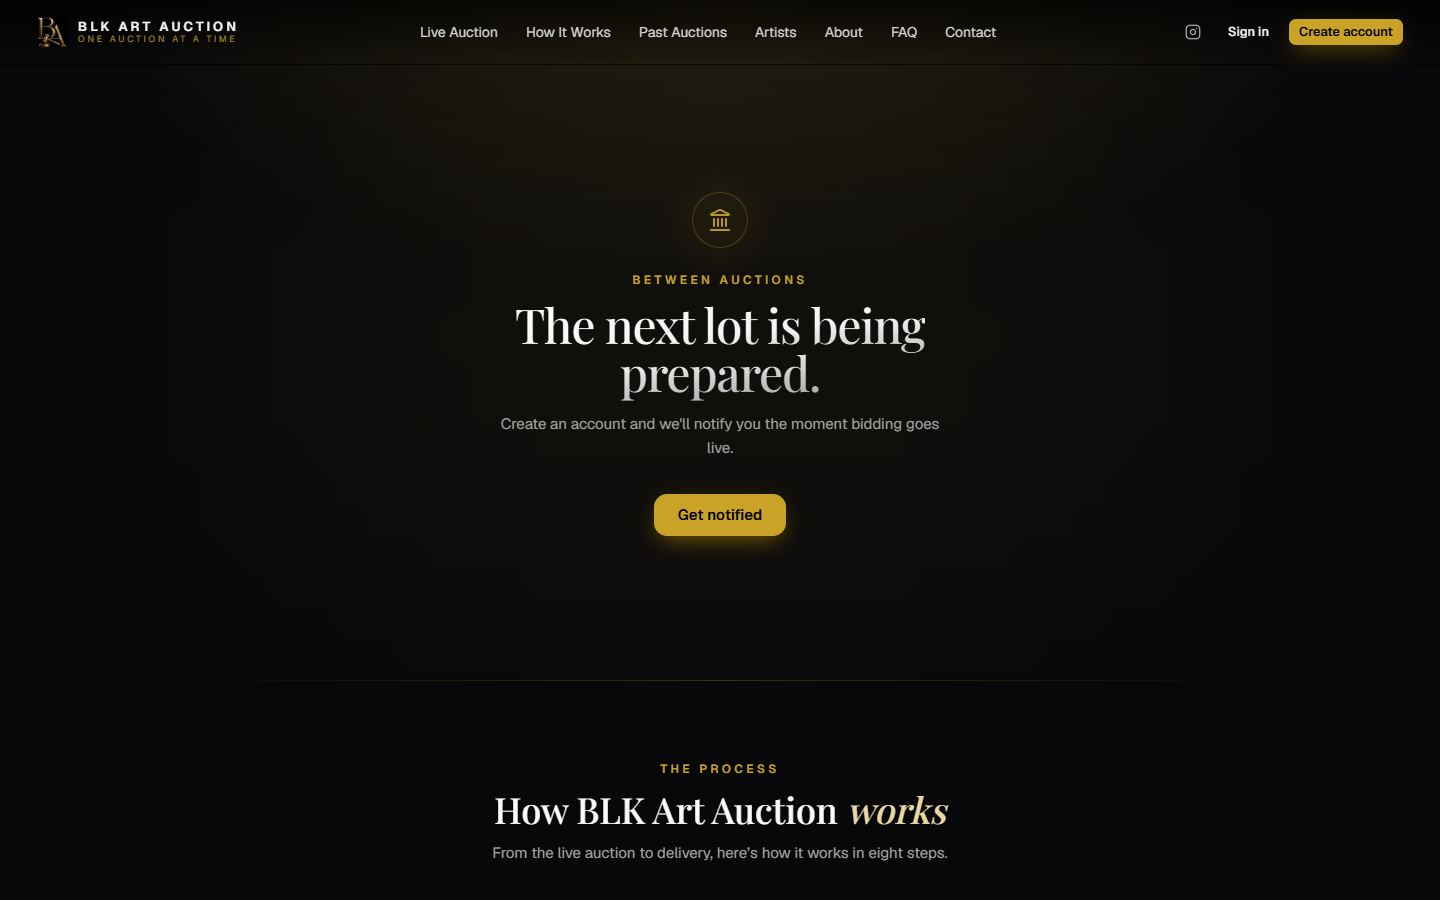
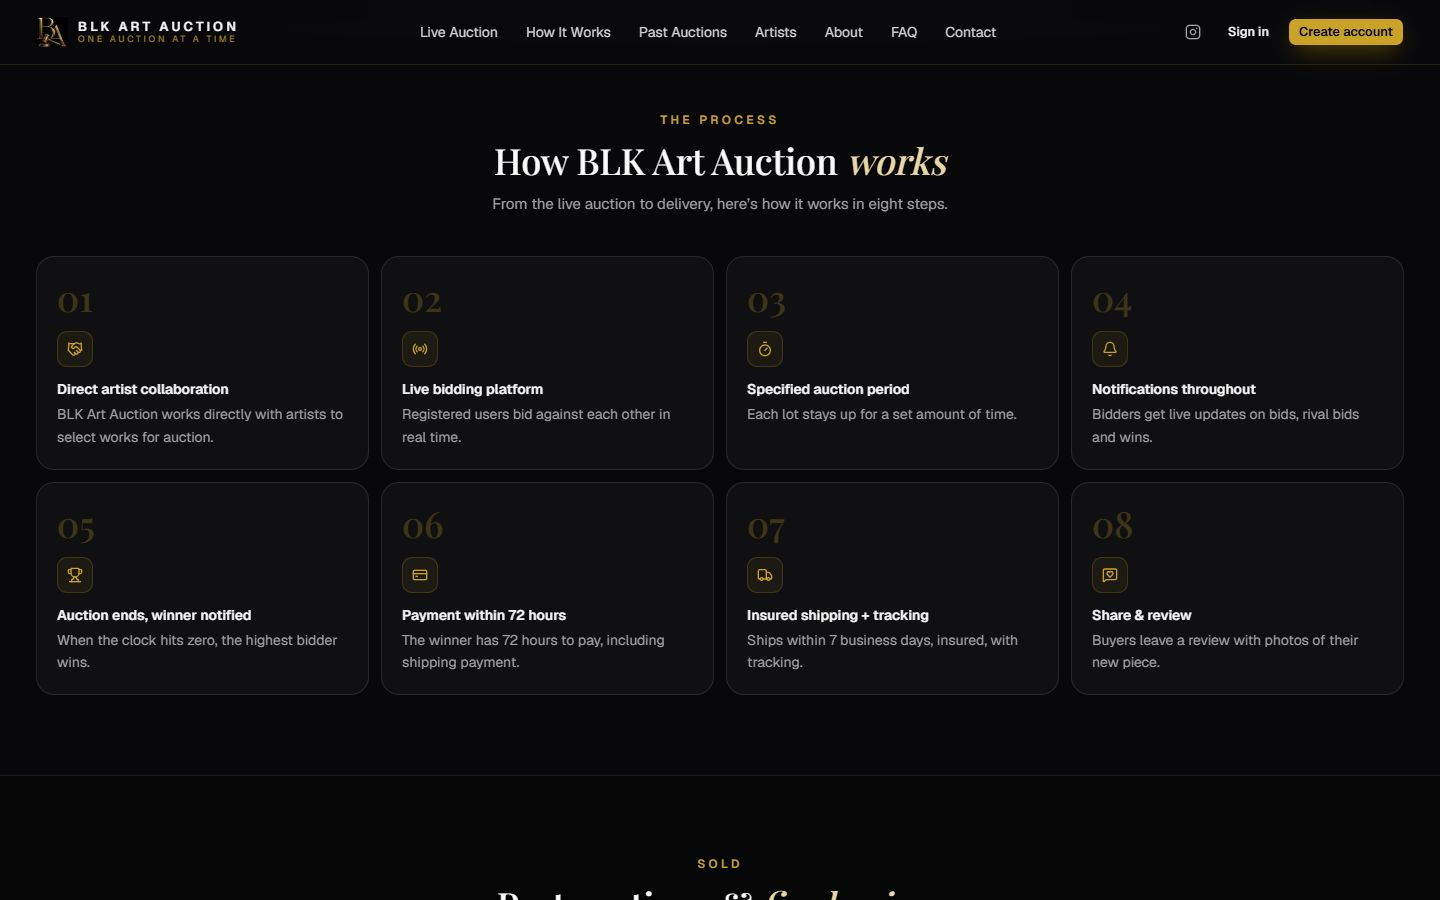
Add Industries section, FAQ, chatbot intent; D-TradeX and BLK preview screenshots

diff --git a/index.html b/index.html
@@ -93,7 +93,10 @@
         "AWS",
         "Google Cloud Platform",
         "Oracle Cloud Infrastructure",
-        "Microsoft Azure"
+        "Microsoft Azure",
+        "Healthcare software",
+        "eCommerce",
+        "FinTech"
       ],
       "knowsLanguage": [
         "English",
@@ -214,6 +217,14 @@
           "acceptedAnswer": {
             "@type": "Answer",
             "text": "Yes. Rahul Dhiman is also written Raahul Dhiman, Rahuldhiman, Raahuldhiman, Rahul Singh Dhiman or Rahul S. Dhiman. They all refer to the same Full-Stack and AI Engineer from Mohali, India, whose profiles are LinkedIn (raahuldhimanofficial) and GitHub (raahuldhiman-dev)."
+          }
+        },
+        {
+          "@type": "Question",
+          "name": "What industries has Rahul Dhiman worked in?",
+          "acceptedAnswer": {
+            "@type": "Answer",
+            "text": "Rahul Dhiman has built software for healthcare and medical imaging (Medviso), eCommerce and retail, online art auctions, fintech and algorithmic trading, HR and career technology, AI SaaS, marketing agencies, booking and scheduling, and real-time messaging. At Kwan Network Solutions he also built client web applications across several industry verticals."
           }
         }
       ]
@@ -614,6 +625,14 @@
       transition: all 0.2s; cursor: default;
     }
     .skill-badge:hover { border-color: rgba(132,94,247,0.4); color: var(--acc2); transform: translateY(-2px); }
+
+    /* Industries */
+    .ind-grid { display: grid; grid-template-columns: repeat(auto-fit, minmax(240px, 1fr)); gap: 16px; margin-top: 8px; }
+    .ind-card { background: var(--card); border: 1px solid var(--border); border-radius: 16px; padding: 22px; transition: border-color 0.25s, transform 0.25s; }
+    .ind-card:hover { border-color: var(--border2); transform: translateY(-3px); }
+    .ind-emoji { font-size: 28px; display: block; margin-bottom: 10px; }
+    .ind-title { font-family: var(--font-display); font-size: 16px; font-weight: 600; margin-bottom: 6px; }
+    .ind-desc { color: var(--muted); font-size: 13.5px; line-height: 1.7; }
 
     /* Projects */
     #projects { background: var(--bg2); }
@@ -1521,9 +1540,9 @@
 
       <!-- D-TradeX -->
       <div class="project-card" data-category="fintech backend fullstack">
-        <div class="project-thumb" style="background:linear-gradient(135deg,#0a0f1e,#0d1f3c,#102040);display:flex;align-items:center;justify-content:center;flex-direction:column;gap:10px;">
-          <div style="font-size:48px;">📈</div>
-          <div style="font-family:'JetBrains Mono',monospace;font-size:11px;color:rgba(0,217,192,0.7);letter-spacing:0.1em;">LIVE · finance.dhimansoft.com</div>
+        <div class="project-thumb pt-gradient-5">
+          <img data-src="assets/projects/dtradex.jpg" alt="D-TradeX preview" loading="lazy">
+          <span class="project-thumb-emoji">📈</span>
           <div class="project-thumb-overlay"><a href="https://finance.dhimansoft.com" target="_blank" rel="noopener">Visit Live Site ↗</a></div>
         </div>
         <div class="project-body">
@@ -1553,6 +1572,26 @@
 
     </div>
     <div style="text-align:center;margin-top:40px;"><a href="https://github.com/raahuldhiman-dev" target="_blank" rel="noopener noreferrer" class="btn-secondary">View All on GitHub →</a></div>
+  </div>
+</section>
+
+<!-- Industries -->
+<section id="industries" aria-labelledby="industries-title">
+  <div class="wrap">
+    <span class="badge">Domains</span>
+    <h2 id="industries-title" class="sec-title fade-up">Industries I've <span style="background:var(--g1);-webkit-background-clip:text;-webkit-text-fill-color:transparent;background-clip:text;">Served</span></h2>
+    <p class="sec-desc">The kinds of businesses my software has been built for, drawn from the projects above and my roles below, including client web applications across several industry verticals at Kwan Network Solutions.</p>
+    <div class="ind-grid">
+      <article class="ind-card fade-up"><span class="ind-emoji" aria-hidden="true">🏥</span><h3 class="ind-title">Healthcare &amp; Medical Imaging</h3><p class="ind-desc">Maintaining Medviso's transfer.medviso.com, with Python and Matplotlib rendering data into images.</p></article>
+      <article class="ind-card fade-up"><span class="ind-emoji" aria-hidden="true">🛒</span><h3 class="ind-title">eCommerce &amp; Retail</h3><p class="ind-desc">A WooCommerce store for a local tyre and car-accessories business, and a Laravel multi-role eCommerce platform.</p></article>
+      <article class="ind-card fade-up"><span class="ind-emoji" aria-hidden="true">🎨</span><h3 class="ind-title">Art &amp; Auctions</h3><p class="ind-desc">BLK Art Auction: real-time bidding, anti-sniping protection and artist onboarding.</p></article>
+      <article class="ind-card fade-up"><span class="ind-emoji" aria-hidden="true">📈</span><h3 class="ind-title">FinTech &amp; Trading</h3><p class="ind-desc">D-TradeX multi-broker trading suite and an LSTM stock price forecaster.</p></article>
+      <article class="ind-card fade-up"><span class="ind-emoji" aria-hidden="true">💼</span><h3 class="ind-title">HR &amp; Career Tech</h3><p class="ind-desc">Polite Resume: an ATS-friendly resume and cover letter builder with a membership flow.</p></article>
+      <article class="ind-card fade-up"><span class="ind-emoji" aria-hidden="true">🤖</span><h3 class="ind-title">AI &amp; SaaS</h3><p class="ind-desc">A multi-tenant RAG document Q&amp;A product and a GPT-4 content generation microservice.</p></article>
+      <article class="ind-card fade-up"><span class="ind-emoji" aria-hidden="true">📣</span><h3 class="ind-title">Marketing &amp; Digital Agencies</h3><p class="ind-desc">Websites and campaign landing pages for small and mid-sized clients at Canvas Craft Media.</p></article>
+      <article class="ind-card fade-up"><span class="ind-emoji" aria-hidden="true">📅</span><h3 class="ind-title">Booking &amp; Scheduling</h3><p class="ind-desc">A booking platform with Zoom integration, calendar sync and Stripe payments.</p></article>
+      <article class="ind-card fade-up"><span class="ind-emoji" aria-hidden="true">💬</span><h3 class="ind-title">Real-time Messaging</h3><p class="ind-desc">A multi-user chat app with direct and group conversations and self-hosted WebSockets.</p></article>
+    </div>
   </div>
 </section>
 
@@ -1724,6 +1763,10 @@
         <summary>Is Raahul Dhiman or Rahul Singh Dhiman the same person as Rahul Dhiman?</summary>
         <p>Yes. Rahul Dhiman is also written Raahul Dhiman, Rahuldhiman, Raahuldhiman, Rahul Singh Dhiman or Rahul S. Dhiman. They all refer to the same Full-Stack and AI Engineer from Mohali, India, whose profiles are LinkedIn (raahuldhimanofficial) and GitHub (raahuldhiman-dev).</p>
       </details>
+      <details class="faq-item">
+        <summary>What industries has Rahul Dhiman worked in?</summary>
+        <p>Rahul Dhiman has built software for healthcare and medical imaging (Medviso), eCommerce and retail, online art auctions, fintech and algorithmic trading, HR and career technology, AI SaaS, marketing agencies, booking and scheduling, and real-time messaging. At Kwan Network Solutions he also built client web applications across several industry verticals.</p>
+      </details>
     </div>
   </div>
 </section>
@@ -1846,7 +1889,7 @@
   <div class="footer-inner">
     <a href="#home" class="footer-logo">Rahul Dhiman</a>
     <div class="footer-links">
-      <a href="#about">About</a><a href="#skills">Skills</a><a href="#projects">Projects</a><a href="#experience">Experience</a><a href="#faq">FAQ</a><a href="#contact">Contact</a>
+      <a href="#about">About</a><a href="#skills">Skills</a><a href="#projects">Projects</a><a href="#industries">Industries</a><a href="#experience">Experience</a><a href="#faq">FAQ</a><a href="#contact">Contact</a>
     </div>
     <div class="footer-copy">© 2026 · Built with ☕ in Mohali<br><span style="opacity:.7">Rahul Dhiman, also written Raahul Dhiman, Rahul Singh Dhiman</span></div>
   </div>
@@ -2220,6 +2263,15 @@
       B('Personal AI Assistant') + ': voice + GPT-4 (in progress)',
       B('AI Content Generator, Booking System, eCommerce Platform, DTradeX') + ': client/private work, code on request'
     ]) + P('See the <a href="#projects">Projects section</a> or <a href="' + GITHUB + '" target="_blank" rel="noopener">GitHub</a> for more.'),
+    industries: P(B('Industries served')) + UL([
+      B('Healthcare &amp; medical imaging') + ': maintaining transfer.medviso.com (Python, Matplotlib)',
+      B('eCommerce &amp; retail') + ': WooCommerce and Laravel stores',
+      B('Art &amp; auctions') + ': BLK Art Auction, real-time bidding',
+      B('FinTech &amp; trading') + ': D-TradeX and an LSTM forecaster',
+      B('HR &amp; career tech') + ': Polite Resume',
+      B('AI &amp; SaaS') + ': RAG chatbot, GPT-4 content tools',
+      B('Marketing agencies, booking &amp; scheduling, real-time messaging')
+    ]) + P('See the <a href="#industries">Industries section</a> for details.'),
     education: P(B('Education')) + UL([
       B('MCA, AI & Machine Learning') + '<br>Amity University Online · Mar 2024 - Apr 2026',
       B('BCA') + '<br>Himachal Pradesh University · 2018 - 2021'
@@ -2267,6 +2319,7 @@
     [/\b(contact|email|mail|reach|linkedin|phone|number|call|connect)\b/, 'contact'],
     [/\b(locat\w*|based|mohali|punjab|india|where|remote)\b/, 'location'],
     [/\b(hire|hiring|job|jobs|available|availability|opportunit\w*|open to|role|roles)\b/, 'hire'],
+    [/\b(industr\w*|sector\w*|domain\w*|vertical\w*|healthcare|medical|medviso|ecommerce|retail|auction\w*)\b/, 'industries'],
     [/\b(project\w*|portfolio|built|build|shipped|dtradex|trading)\b/, 'projects'],
     [/\b(skill\w*|tech|stack|technolog\w*|laravel|react|php|python|javascript|mysql|know)\b/, 'skills'],
     [/\b(ai|ml|gpt\w*|llm|langchain|machine learning|nlp|openai)\b/, 'ai'],
@@ -2295,6 +2348,7 @@
     cloud: 'Does he know AWS, GCP or Oracle Cloud?',
     ai: 'What AI/ML work has he done?',
     projects: 'Show me his projects',
+    industries: 'Which industries has he worked in?',
     education: 'What is his education?',
     certs: 'Any certifications?',
     hire: 'Is he open to work?',
@@ -2307,7 +2361,7 @@
     experience: ['softweaver', 'skills', 'ai'], softweaver: ['kwan', 'ai', 'skills'], kwan: ['canvas', 'softweaver', 'skills'],
     canvas: ['worksdelight', 'kwan', 'skills'], worksdelight: ['canvas', 'experience', 'skills'],
     skills: ['cloud', 'projects', 'ai'], cloud: ['projects', 'skills', 'softweaver'], ai: ['projects', 'skills', 'softweaver'],
-    projects: ['skills', 'hire', 'resume'], education: ['certs', 'ai', 'skills'], certs: ['education', 'skills'],
+    projects: ['industries', 'skills', 'hire'], industries: ['projects', 'hire', 'resume'], education: ['certs', 'ai', 'skills'], certs: ['education', 'skills'],
     hire: ['resume', 'contact', 'skills'], contact: ['resume', 'hire', 'projects'], resume: ['contact', 'hire', 'projects'],
     location: ['hire', 'contact'], languages: ['education', 'hire'], years: ['softweaver', 'skills'], thanks: [], hello: [], fallback: []
   };
